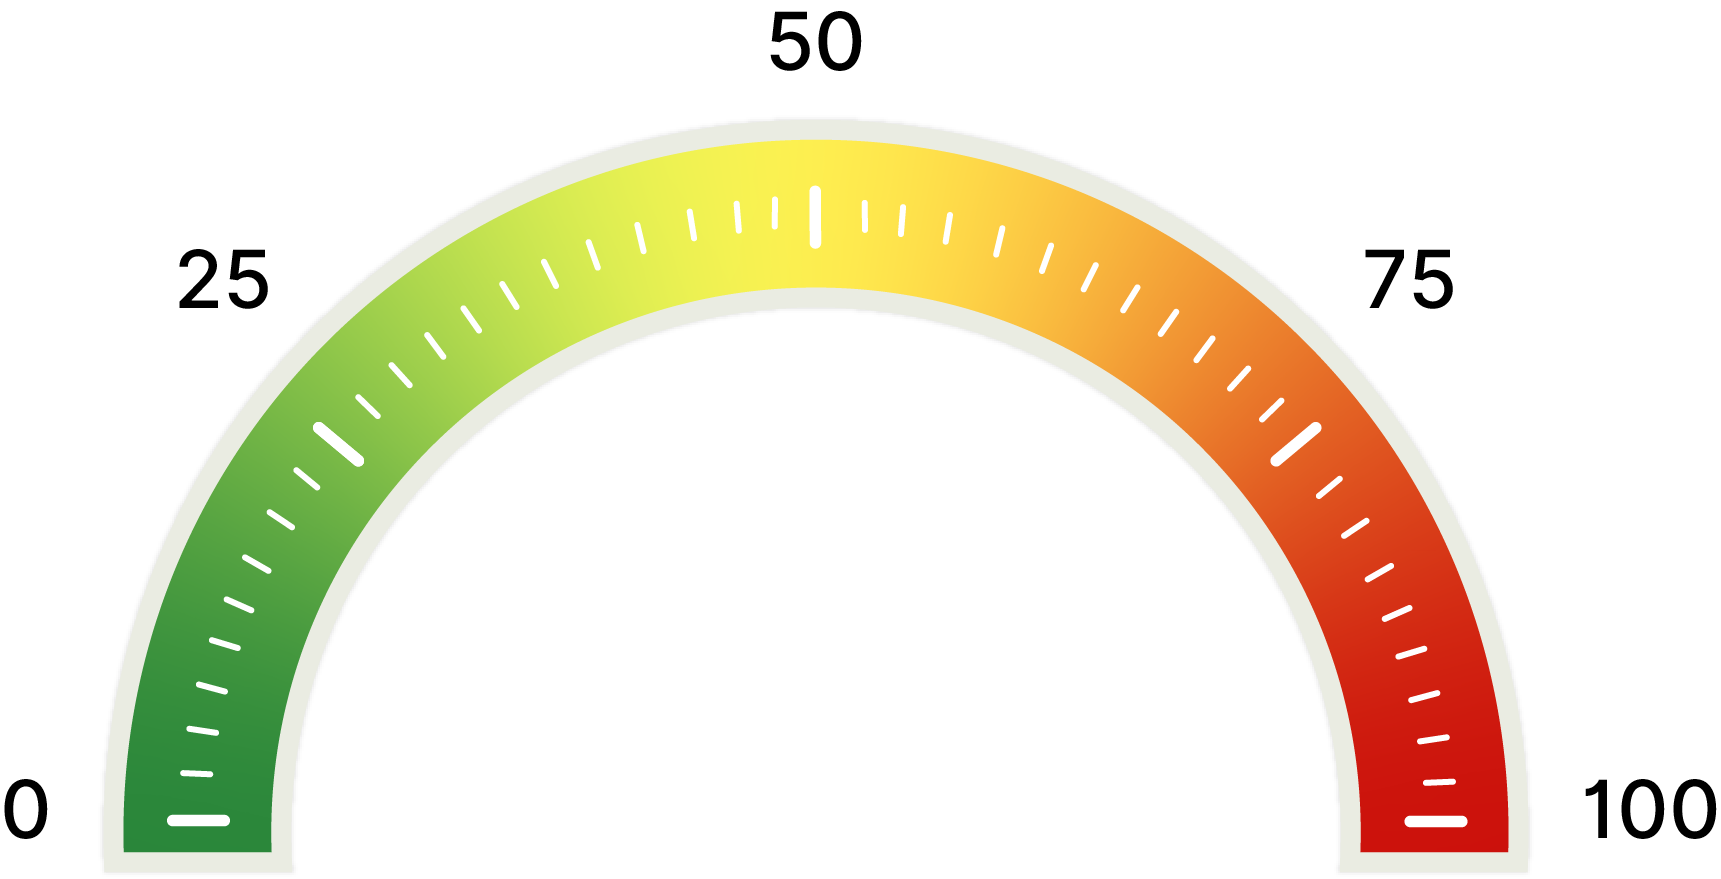
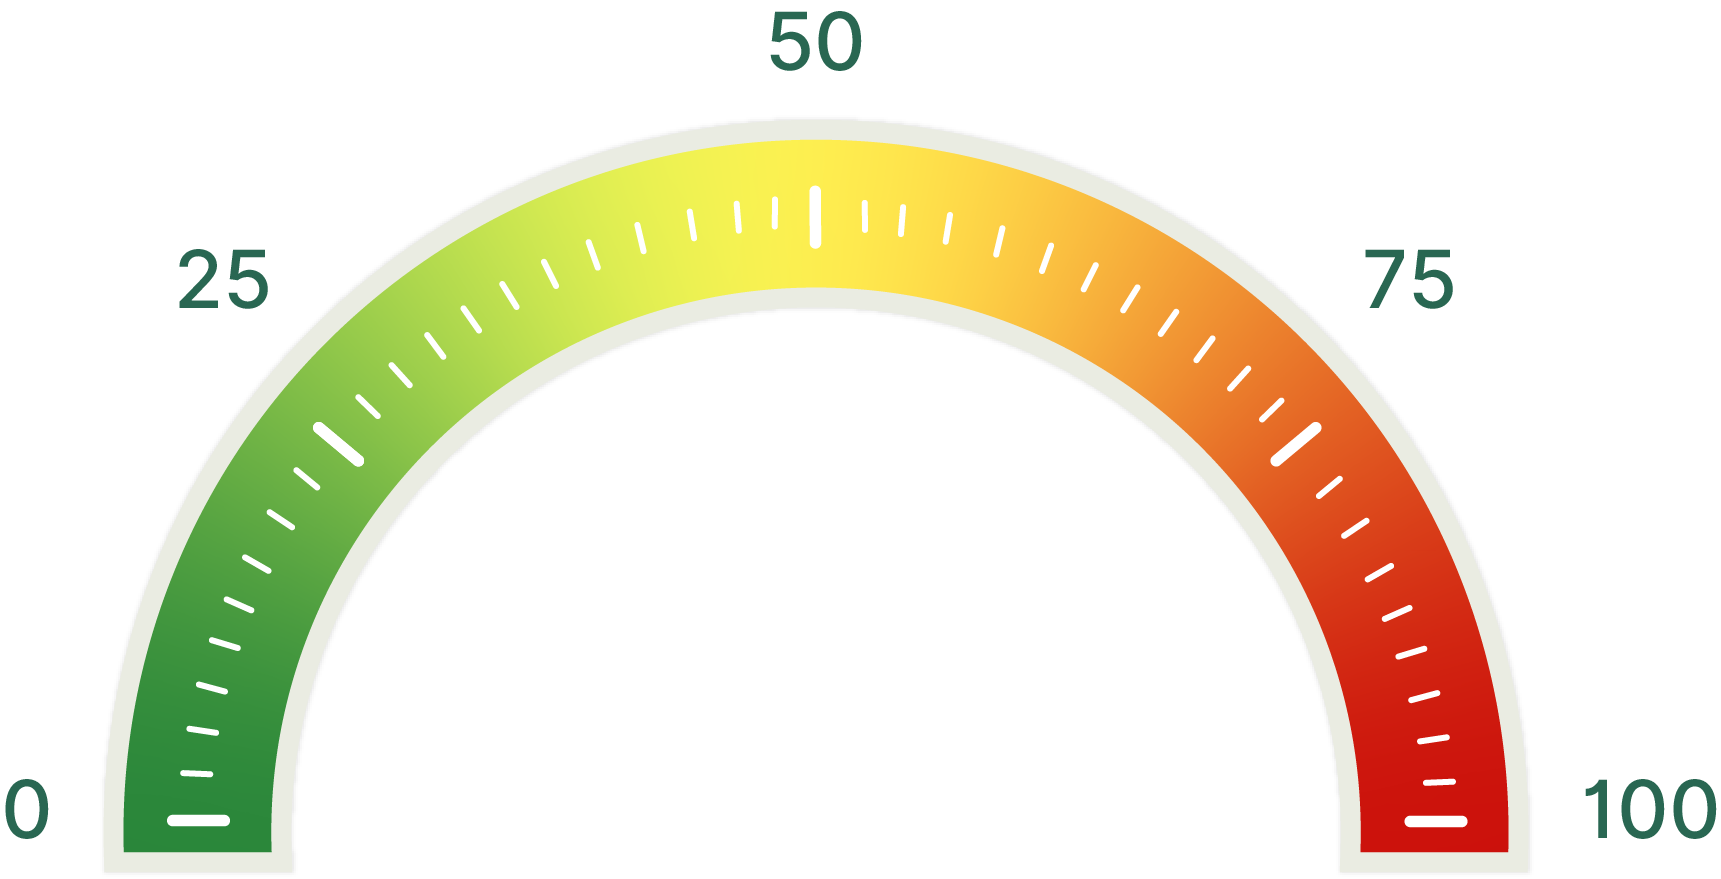
update assets

diff --git a/src/components/Pillar/Pillar.jsx b/src/components/Pillar/Pillar.jsx
@@ -1,12 +1,19 @@
-import pillar from "../../assets/images/pillar.png";
+import pillarLeft from "../../assets/images/pillar-left.png";
+import pillarRight from "../../assets/images/pillar-right.png";
 
 import "./Pillar.scss";
 
 const Pillar = ({ side }) => {
+  const pillarImage = side === "left" ? pillarLeft : pillarRight;
+
   return (
     <aside className={`pillar pillar--${side}`}>
       <div className="pillar__wrapper">
-        <img src={pillar} alt={`${side} Pillar`} className="pillar__image" />
+        <img
+          src={pillarImage}
+          alt={`${side} Pillar`}
+          className="pillar__image"
+        />
 
         {/* Animated fill will come here */}
         {/* <div className="pillar__fill"></div> */}

diff --git a/src/components/Meter/Meter.jsx b/src/components/Meter/Meter.jsx
@@ -1,5 +1,8 @@
 import meter from "../../assets/images/meter.png";
 
+import Wave from "../Wave/Wave";
+import Mic from "../Mic/Mic";
+
 import "./Meter.scss";
 
 const Meter = () => {
@@ -7,9 +10,17 @@ const Meter = () => {
     <section className="meter">
       <img src={meter} alt="Excitometer Meter" className="meter__image" />
 
-      {/* Needle will be added later */}
+      {/* Needle will be added here */}
 
-      {/* Score will be added later */}
+      {/* Score will be added here */}
+
+      <div className="meter__bottom">
+        <Wave />
+
+        <Mic />
+
+        <Wave />
+      </div>
     </section>
   );
 };

diff --git a/src/pages/Home/Home.jsx b/src/pages/Home/Home.jsx
@@ -1,8 +1,6 @@
 import Header from "../../components/Header/Header";
 import Meter from "../../components/Meter/Meter";
 import Pillar from "../../components/Pillar/Pillar";
-import Wave from "../../components/Wave/Wave";
-import Mic from "../../components/Mic/Mic";
 
 import "./Home.scss";
 
@@ -18,14 +16,6 @@ const Home = () => {
 
         <Pillar side="right" />
       </div>
-
-      {/* <div className="bottom">
-        <Wave />
-
-        <Mic />
-
-        <Wave />
-      </div> */}
     </div>
   );
 };

diff --git a/src/components/Meter/Meter.scss b/src/components/Meter/Meter.scss
@@ -8,8 +8,27 @@
   position: relative;
 
   &__image {
-    width: 680px;
+    width: 700px;
+    display: block;
+
     user-select: none;
     pointer-events: none;
+  }
+
+  &__bottom {
+    position: absolute;
+
+    left: 50%;
+    bottom: -35px;
+
+    transform: translateX(-50%);
+
+    display: flex;
+    align-items: center;
+    justify-content: center;
+
+    gap: 40px;
+
+    z-index: 5;
   }
 }

diff --git a/src/pages/Home/Home.scss b/src/pages/Home/Home.scss
@@ -19,16 +19,4 @@
   display: flex;
   align-items: center;
   justify-content: space-between;
-
-  padding: 0 80px;
-}
-
-.bottom {
-  display: flex;
-  justify-content: center;
-  align-items: center;
-
-  gap: 40px;
-
-  padding-bottom: 50px;
 }

diff --git a/src/components/Pillar/Pillar.scss b/src/components/Pillar/Pillar.scss
@@ -35,6 +35,5 @@
 
   &--right {
     justify-content: flex-end;
-    transform: scaleX(-1);
   }
 }
